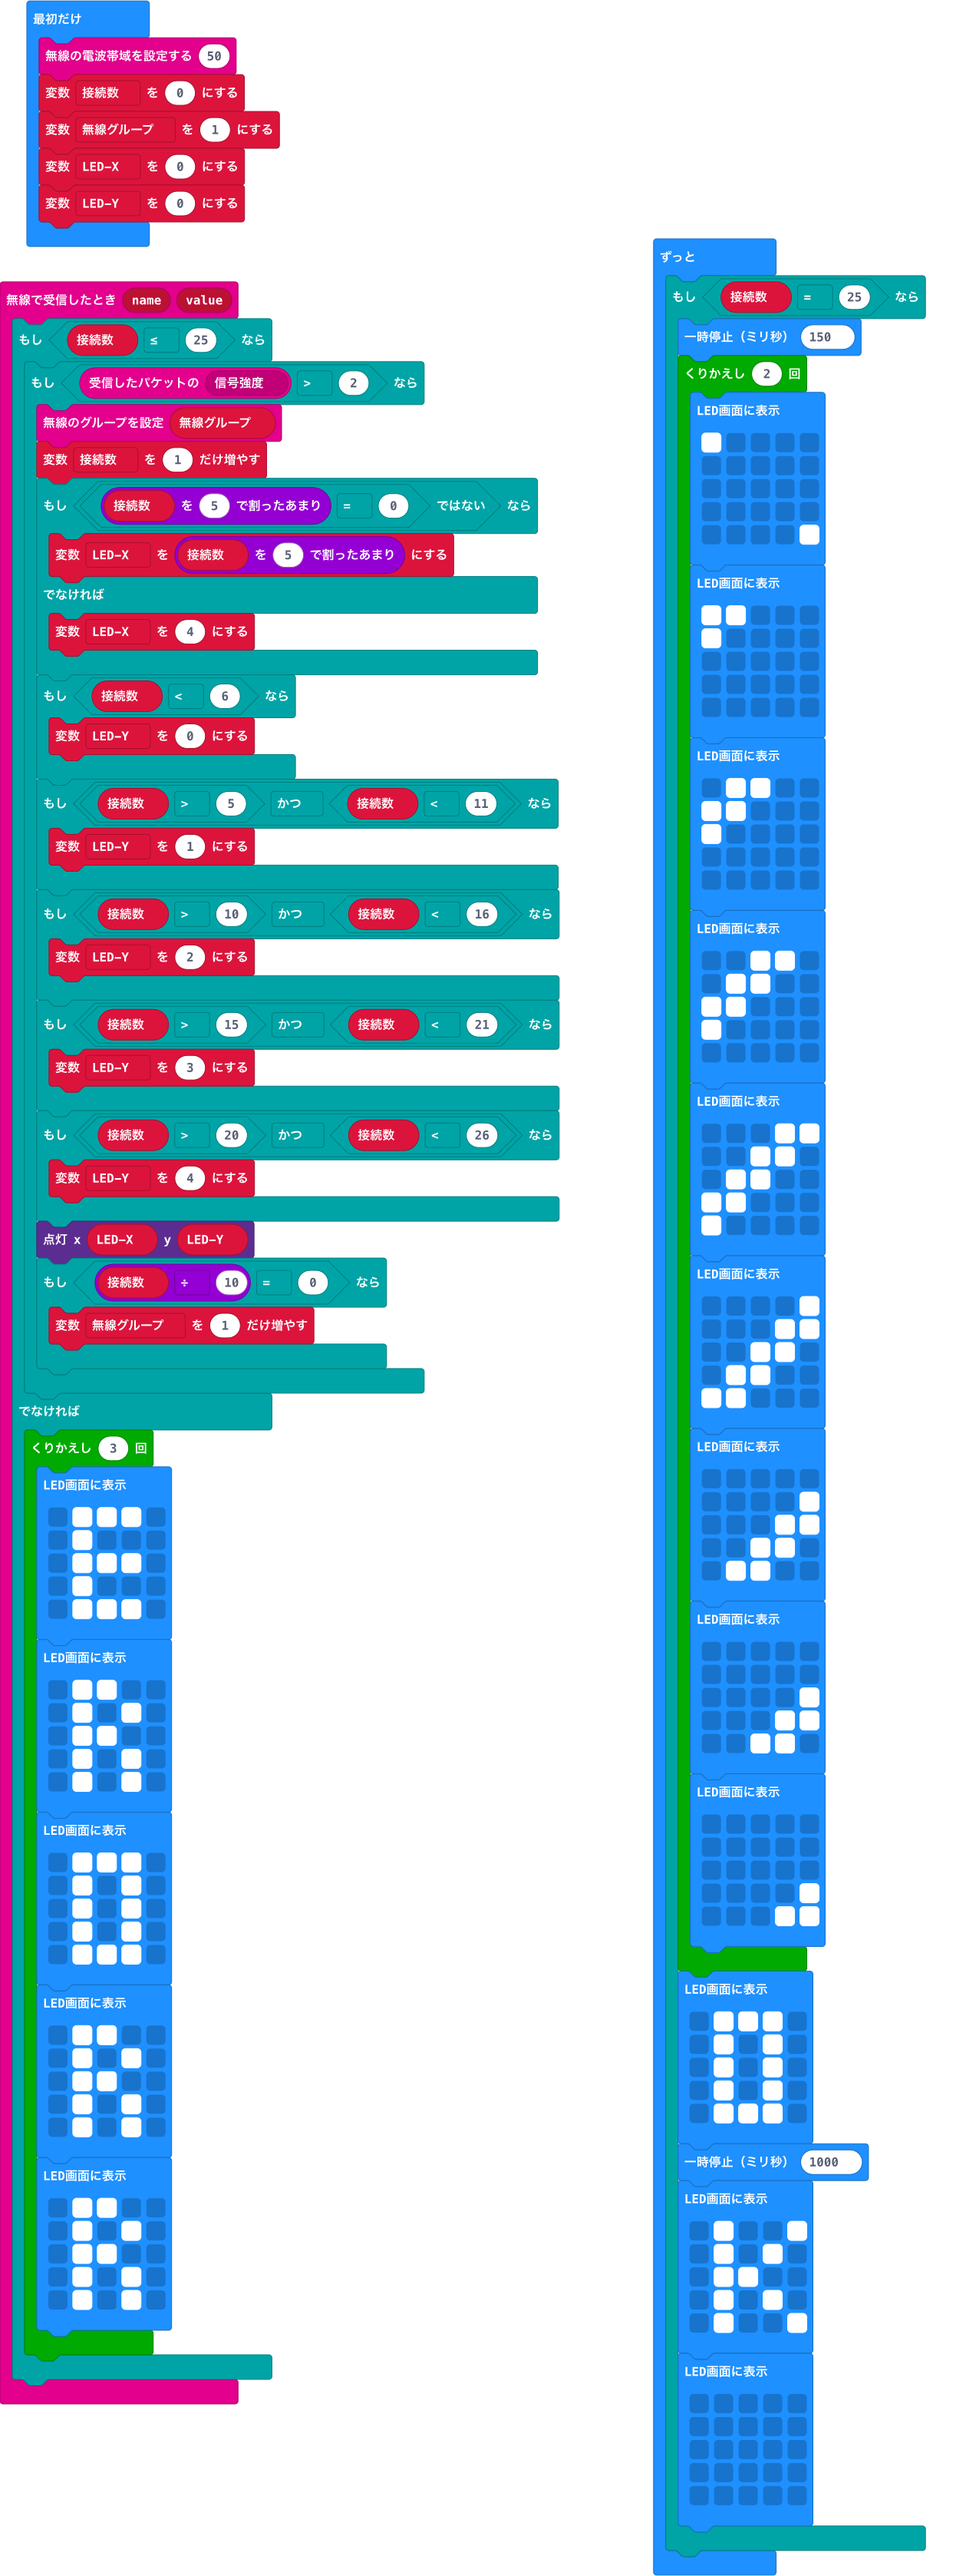
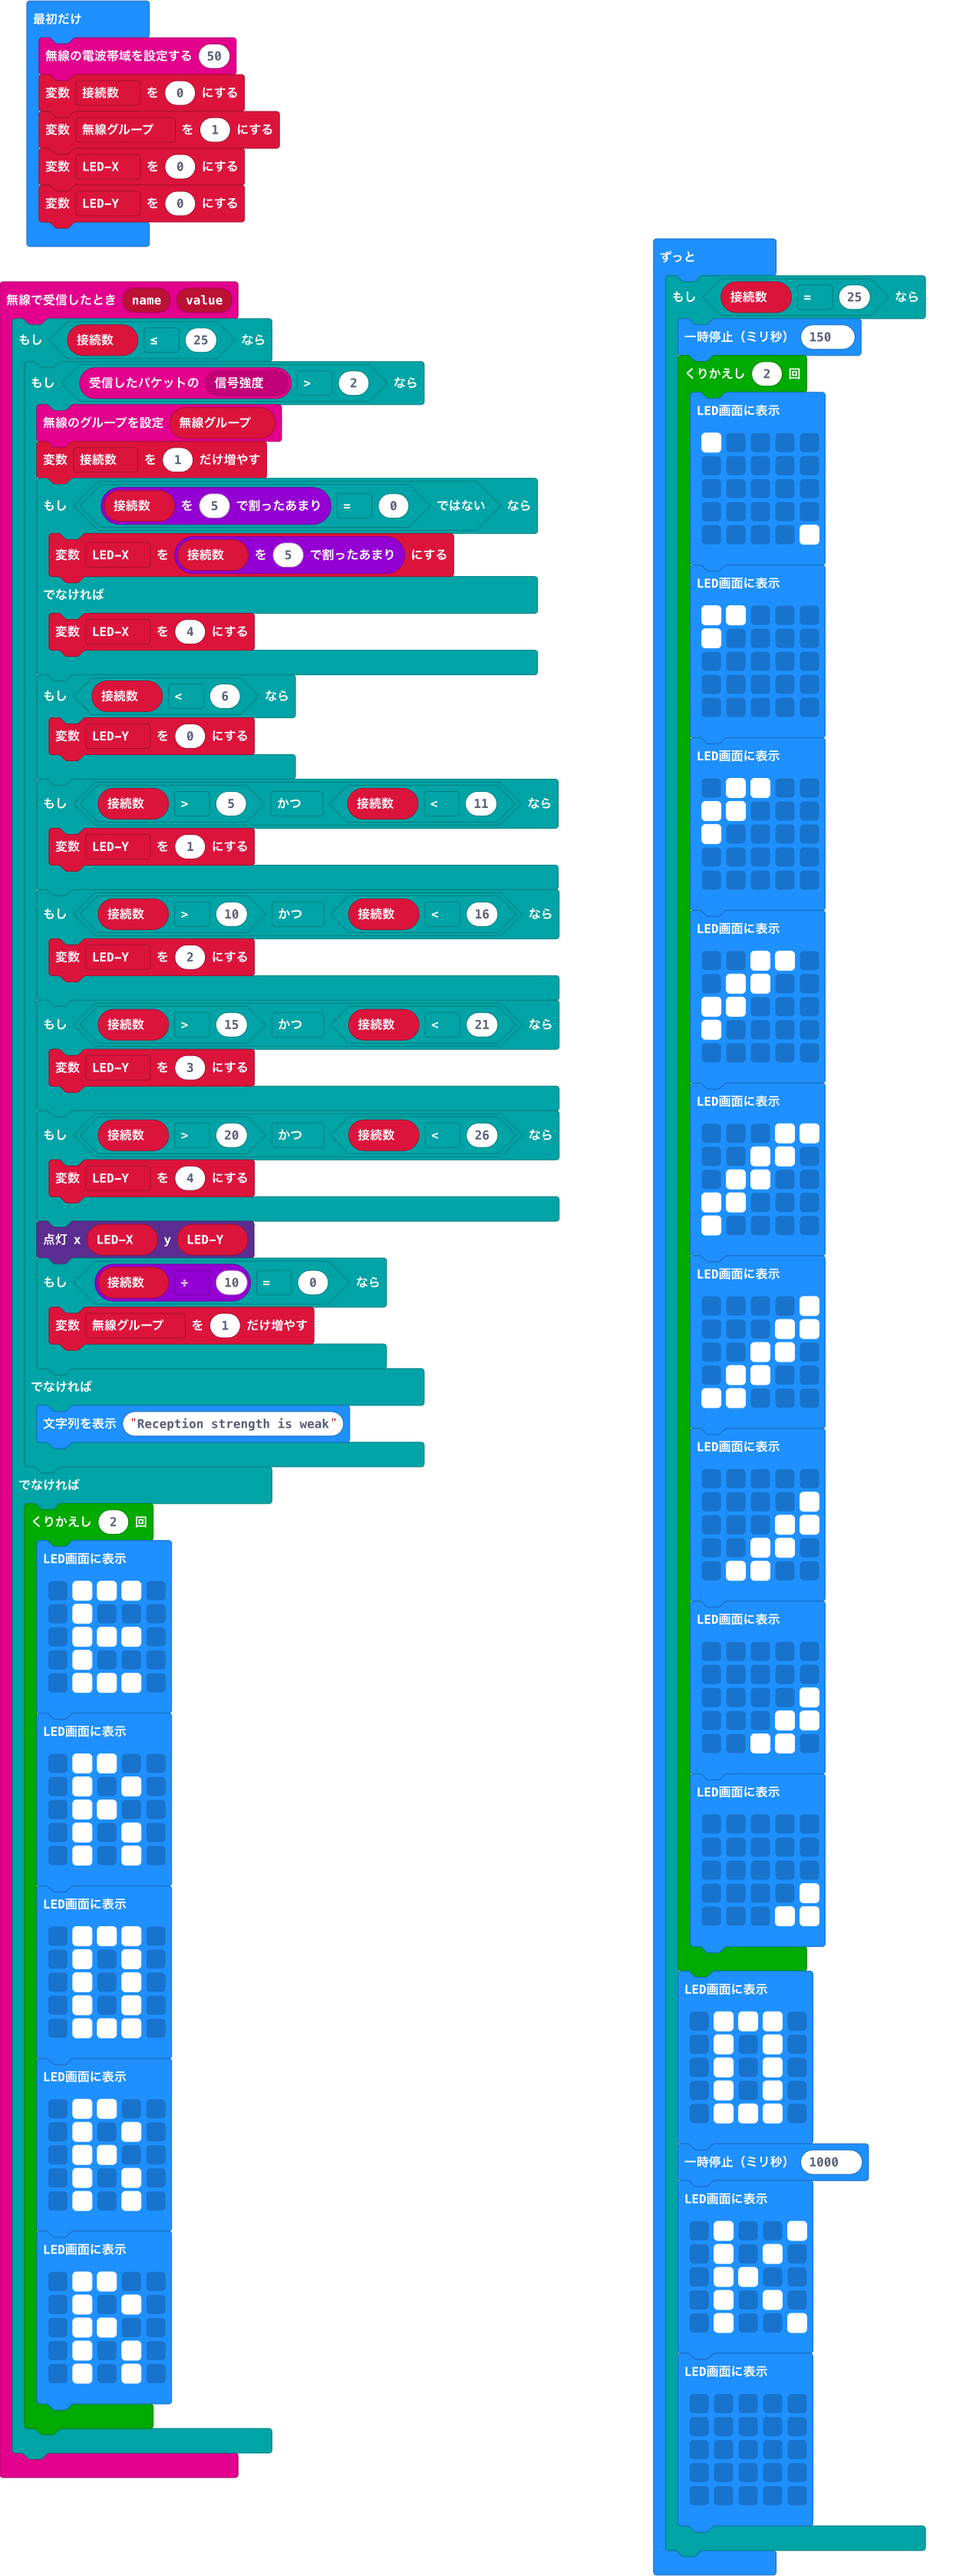
更新 main.blocks, main.ts

Changed region(s): [[0.0, 0.5271, 0.4337, 0.9612]]

diff --git a/main.ts b/main.ts
@@ -27,9 +27,11 @@ radio.onReceivedValue(function (name, value) {
             if (接続数 / 10 == 0) {
                 無線グループ += 1
             }
+        } else {
+            basic.showString("Reception strength is weak")
         }
     } else {
-        for (let index = 0; index < 3; index++) {
+        for (let index = 0; index < 2; index++) {
             basic.showLeds(`
                 . # # # .
                 . # . . .
